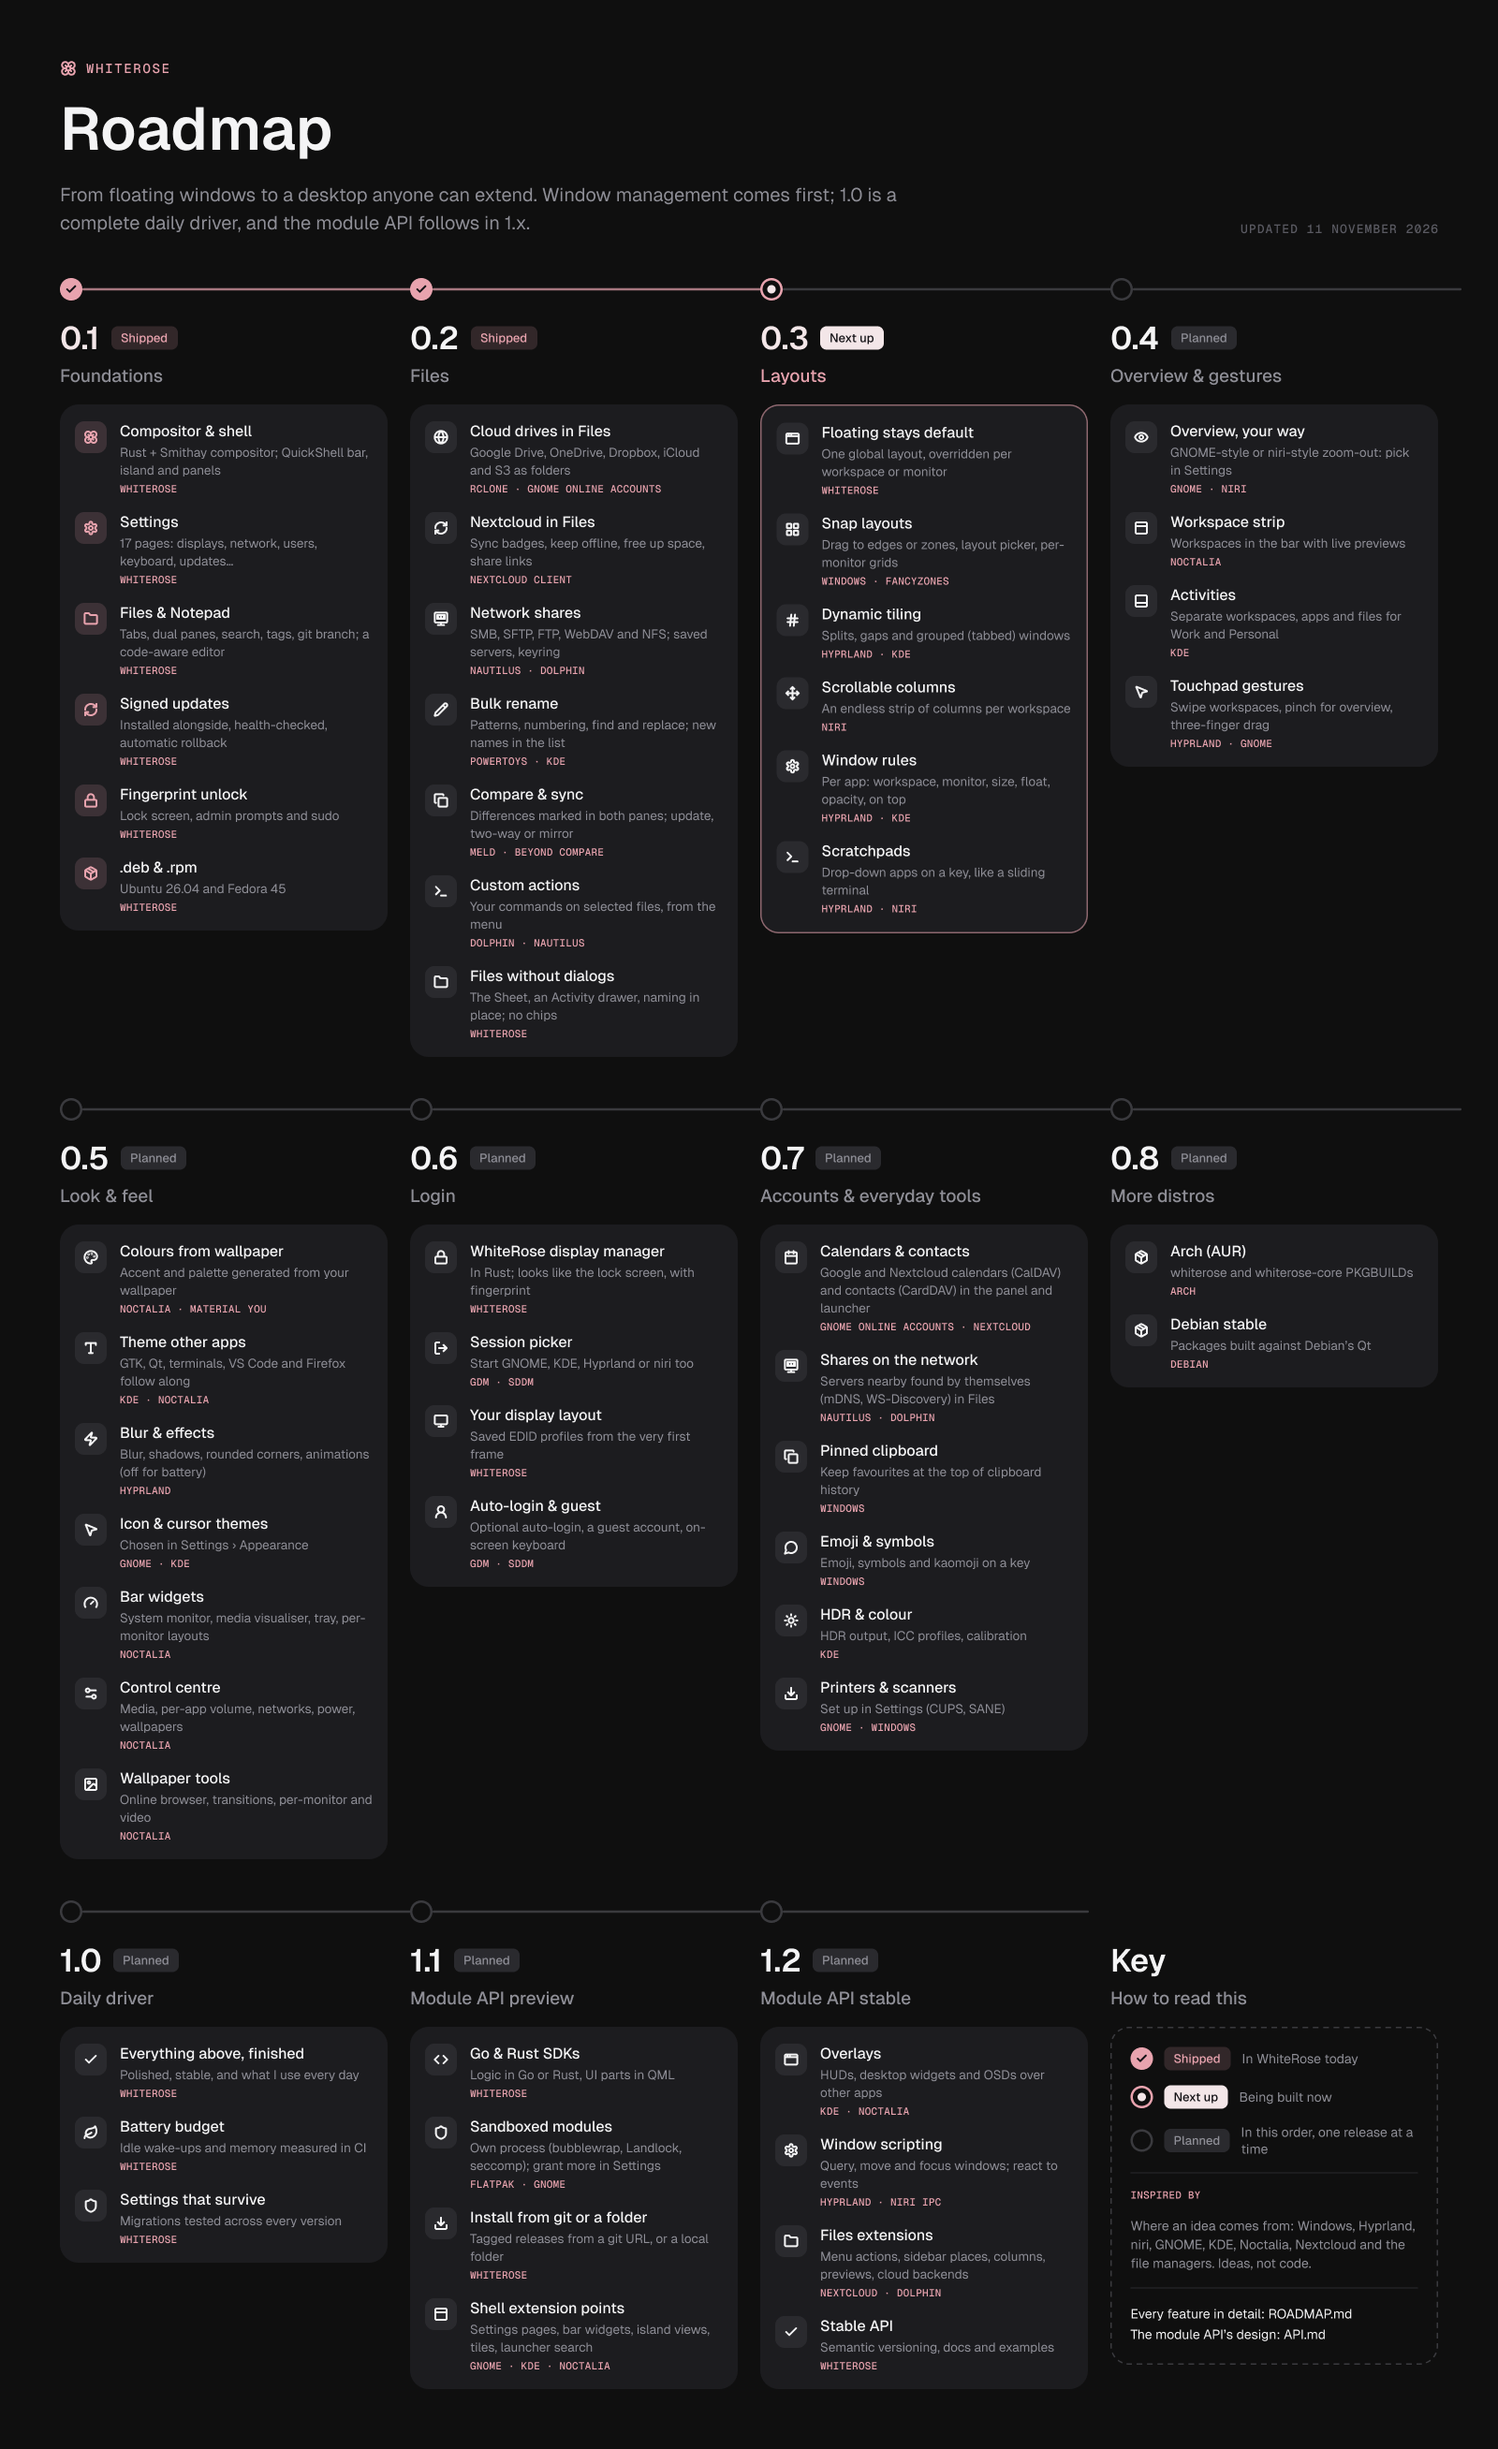
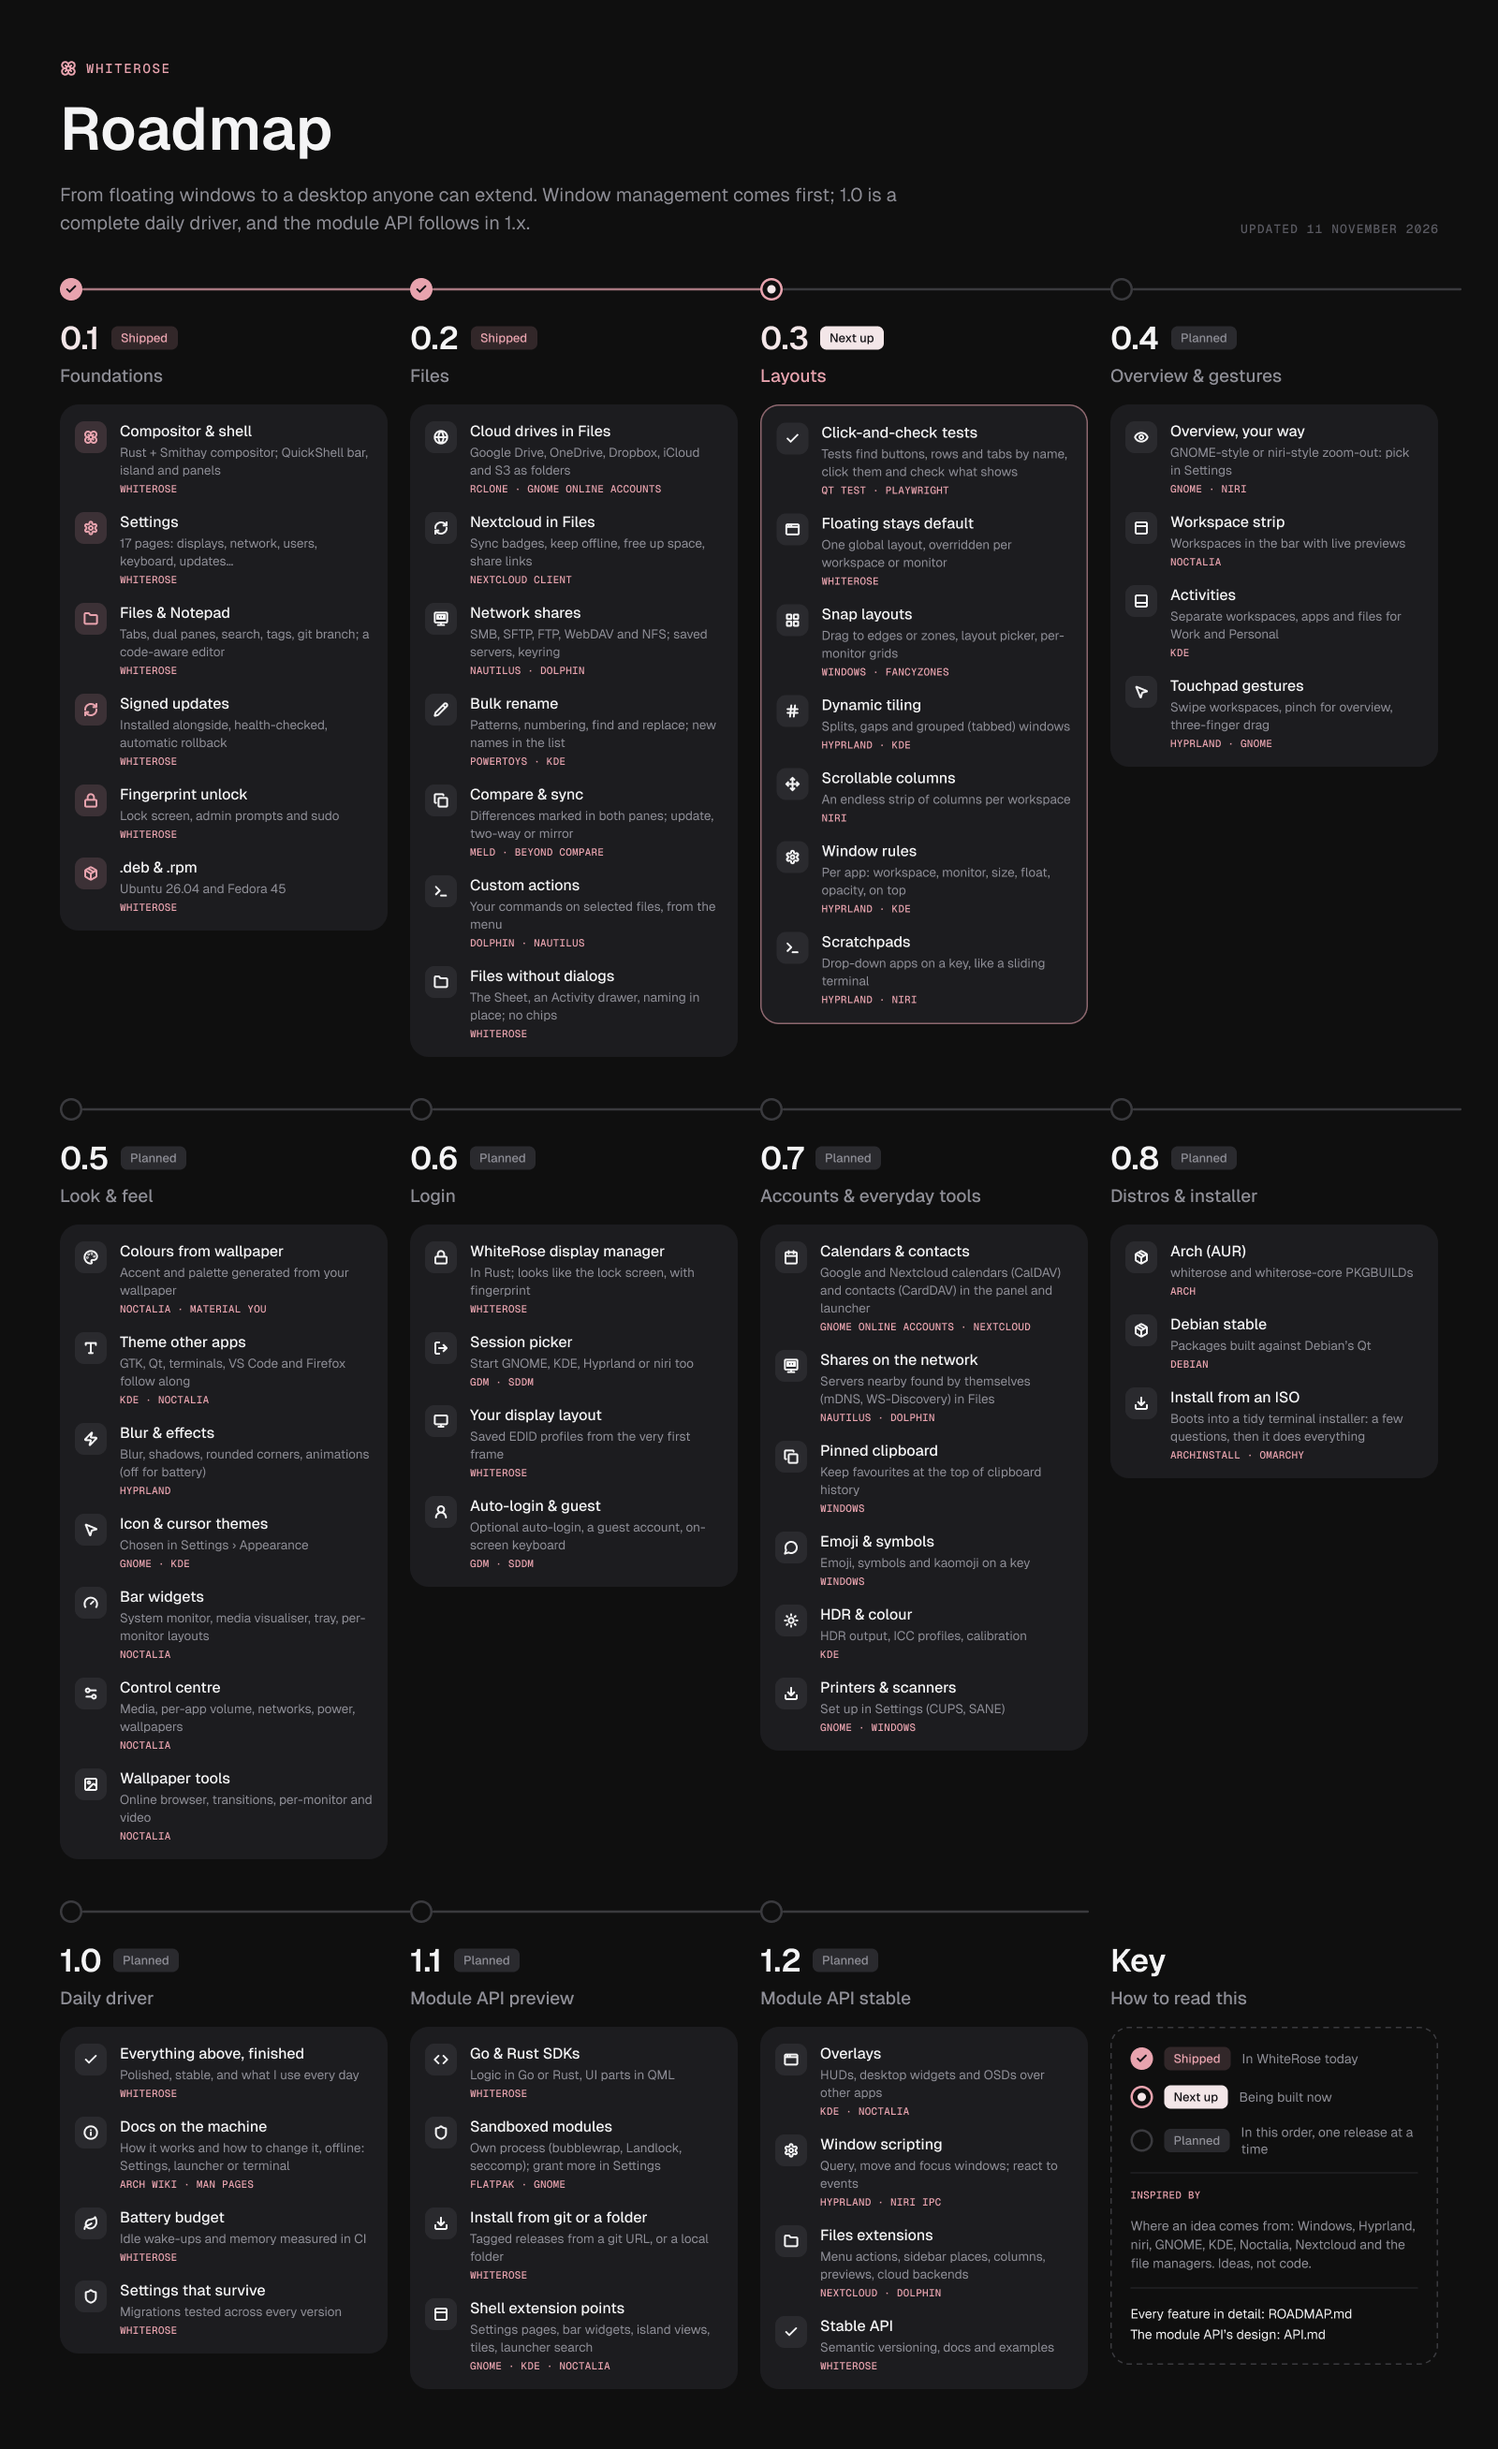
feat: update CI configuration to ignore markdown and documentation changes

Changed region(s): [[0.5, 0.1548, 0.7188, 0.4025], [0.0312, 0.867, 0.1875, 0.9599], [0.75, 0.5573, 0.9062, 0.5883]]

diff --git a/ROADMAP.md b/ROADMAP.md
@@ -19,7 +19,7 @@ Each feature lists where the idea comes from: Windows, Hyprland, niri, GNOME, KD
 | 🗓 | [**0.5**](#05--look--feel) | Look & feel | Making it yours, and making every app match. |
 | 🗓 | [**0.6**](#06--login) | Login | WhiteRose from the first frame: its own display manager. |
 | 🗓 | [**0.7**](#07--accounts--everyday-tools) | Accounts & everyday tools | Your accounts' calendars and contacts, small things used all day, and hardware setup. |
-| 🗓 | [**0.8**](#08--more-distros) | More distros | Beyond Ubuntu and Fedora. |
+| 🗓 | [**0.8**](#08--distros--installer) | Distros & installer | Beyond Ubuntu and Fedora, and an ISO installer. |
 | 🗓 | [**1.0**](#10--daily-driver) | Daily driver | Everything above, finished. |
 | 🗓 | [**1.1**](#11--module-api-preview) | Module API preview | Anyone can extend WhiteRose. Design: API.md. |
 | 🗓 | [**1.2**](#12--module-api-stable) | Module API stable | Beyond the shell, and a stable API. |
@@ -95,6 +95,15 @@ All of it is described in the [README](README.md) and [ARCHITECTURE.md](ARCHITEC
 ## 0.3 · Layouts
 
 **Next up.** How windows are arranged: four models, one global choice with overrides.
+
+<details>
+<summary><b>Click-and-check tests</b>: Tests that use WhiteRose like a person would, without guessing where things are on screen. <sub>· Qt Test, Playwright</sub></summary>
+
+- Every button, row, tab and field has a name; a test says "click Rename in the Sheet, type IMG_, check the list shows lab-day 0412.jpg" and the test harness finds it, clicks it and reads back what's shown.
+- Runs in a nested session in CI, for Files, Settings, Notepad and the shell (windows, layouts, the island), with a screenshot kept when something fails.
+- Comes first in this milestone: every release after is quicker and safer to change.
+
+</details>
 
 <details>
 <summary><b>Layout engine: floating by default, global with overrides</b>: One layout for everything, overridden per workspace or per monitor, from Settings or a key. <sub>· Windows, KDE</sub></summary>
@@ -332,9 +341,9 @@ All of it is described in the [README](README.md) and [ARCHITECTURE.md](ARCHITEC
 </details>
 
 
-## 0.8 · More distros
+## 0.8 · Distros & installer
 
-**Planned.** Beyond Ubuntu and Fedora.
+**Planned.** Beyond Ubuntu and Fedora, and a WhiteRose you install from an ISO.
 
 <details>
 <summary><b>Arch (AUR)</b>: PKGBUILDs for whiterose and whiterose-core. <sub>· WhiteRose's own</sub></summary>
@@ -350,6 +359,15 @@ All of it is described in the [README](README.md) and [ARCHITECTURE.md](ARCHITEC
 
 </details>
 
+<details>
+<summary><b>Install from an ISO</b>: Boot it and a tidy terminal installer does everything. <sub>· archinstall, Omarchy</sub></summary>
+
+- No live desktop to load: the ISO boots straight into a full-screen terminal installer that looks like WhiteRose (its colours, clear steps, a progress bar), not a wall of text.
+- A few questions (disk, encryption, user, Wi-Fi, keyboard, time zone), a summary to confirm, then it partitions, installs the base system and WhiteRose, and sets up the bootloader and fingerprint unlock on its own. No commands to type.
+- Built from a supported distro, signed like the packages, and ends by rebooting into WhiteRose.
+
+</details>
+
 
 ## 1.0 · Daily driver
 
@@ -359,6 +377,15 @@ All of it is described in the [README](README.md) and [ARCHITECTURE.md](ARCHITEC
 <summary><b>Polish everything above</b>: Stable, finished and pleasant to use every day. <sub>· WhiteRose's own</sub></summary>
 
 - Bug bash across all milestones; first-run experience; release notes in the Updates page.
+
+</details>
+
+<details>
+<summary><b>Docs on the machine</b>: How everything works and how to change it, offline. <sub>· Arch Wiki, man pages</sub></summary>
+
+- Shipped with WhiteRose and opened from Settings (a ? on each page), the launcher, or a terminal (`whiterose-docs files`), with search; nothing to download or rebuild.
+- For each feature: what it does, its settings and config files, and how to change its behaviour (settings, scripts, your own actions, a module). The module API reference joins in 1.1.
+- Written alongside the code, so they match the version you're running.
 
 </details>
 
